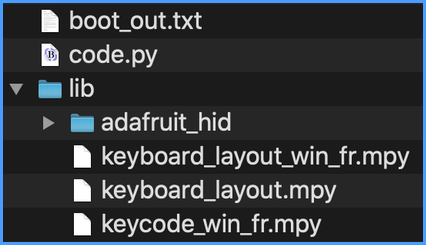
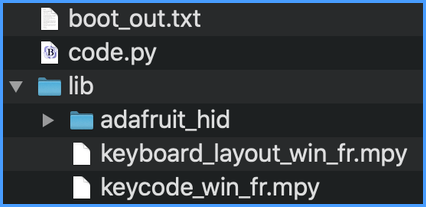
switch KeyboardLayoutBase to latest adafruit_HID

Changed region(s): [[0.0, 0.1739, 1.0, 1.0], [0.0, 0.0, 1.0, 0.1449], [0.0915, 0.5507, 0.1221, 0.6087]]

diff --git a/tests/reference/keyboard_layout.py b/tests/reference/keyboard_layout.py
@@ -3,6 +3,9 @@
 # SPDX-License-Identifier: MIT
 
 """
+`keyboard_layout.KeyboardLayoutBase`
+=======================================================
+
 * Author(s): Dan Halbert, AngainorDev, Neradoc
 """
 
@@ -43,7 +46,7 @@ class KeyboardLayoutBase:
 
     def _write(self, keycode, altgr=False):
         """Type a key combination based on shift bit and altgr bool
-        
+
         :param keycode: int value of the keycode, with the shift bit.
         :param altgr: bool indicating if the altgr key should be pressed too.
         """

diff --git a/libraries/layouts/keyboard_layout_win_br.py b/libraries/layouts/keyboard_layout_win_br.py
@@ -10,7 +10,7 @@ __version__ = "0.0.0-auto.0"
 __repo__ = "https://github.com/Neradoc/Circuitpython_Keyboard_Layouts.git"
 
 
-from keyboard_layout import KeyboardLayoutBase
+from adafruit_hid.keyboard_layout_base import KeyboardLayoutBase
 class KeyboardLayout(KeyboardLayoutBase):
     ASCII_TO_KEYCODE = (
         b'\x00'

diff --git a/libraries/layouts/keyboard_layout_win_cz.py b/libraries/layouts/keyboard_layout_win_cz.py
@@ -10,7 +10,7 @@ __version__ = "0.0.0-auto.0"
 __repo__ = "https://github.com/Neradoc/Circuitpython_Keyboard_Layouts.git"
 
 
-from keyboard_layout import KeyboardLayoutBase
+from adafruit_hid.keyboard_layout_base import KeyboardLayoutBase
 class KeyboardLayout(KeyboardLayoutBase):
     ASCII_TO_KEYCODE = (
         b'\x00'

diff --git a/libraries/layouts/keyboard_layout_win_cz1.py b/libraries/layouts/keyboard_layout_win_cz1.py
@@ -10,7 +10,7 @@ __version__ = "0.0.0-auto.0"
 __repo__ = "https://github.com/Neradoc/Circuitpython_Keyboard_Layouts.git"
 
 
-from keyboard_layout import KeyboardLayoutBase
+from adafruit_hid.keyboard_layout_base import KeyboardLayoutBase
 class KeyboardLayout(KeyboardLayoutBase):
     ASCII_TO_KEYCODE = (
         b'\x00'

diff --git a/libraries/layouts/keyboard_layout_win_da.py b/libraries/layouts/keyboard_layout_win_da.py
@@ -10,7 +10,7 @@ __version__ = "0.0.0-auto.0"
 __repo__ = "https://github.com/Neradoc/Circuitpython_Keyboard_Layouts.git"
 
 
-from keyboard_layout import KeyboardLayoutBase
+from adafruit_hid.keyboard_layout_base import KeyboardLayoutBase
 class KeyboardLayout(KeyboardLayoutBase):
     ASCII_TO_KEYCODE = (
         b'\x00'

diff --git a/libraries/layouts/keyboard_layout_win_de.py b/libraries/layouts/keyboard_layout_win_de.py
@@ -10,7 +10,7 @@ __version__ = "0.0.0-auto.0"
 __repo__ = "https://github.com/Neradoc/Circuitpython_Keyboard_Layouts.git"
 
 
-from keyboard_layout import KeyboardLayoutBase
+from adafruit_hid.keyboard_layout_base import KeyboardLayoutBase
 class KeyboardLayout(KeyboardLayoutBase):
     ASCII_TO_KEYCODE = (
         b'\x00'

diff --git a/libraries/layouts/keyboard_layout_win_es.py b/libraries/layouts/keyboard_layout_win_es.py
@@ -10,7 +10,7 @@ __version__ = "0.0.0-auto.0"
 __repo__ = "https://github.com/Neradoc/Circuitpython_Keyboard_Layouts.git"
 
 
-from keyboard_layout import KeyboardLayoutBase
+from adafruit_hid.keyboard_layout_base import KeyboardLayoutBase
 class KeyboardLayout(KeyboardLayoutBase):
     ASCII_TO_KEYCODE = (
         b'\x00'

diff --git a/libraries/layouts/keyboard_layout_win_fr.py b/libraries/layouts/keyboard_layout_win_fr.py
@@ -10,7 +10,7 @@ __version__ = "0.0.0-auto.0"
 __repo__ = "https://github.com/Neradoc/Circuitpython_Keyboard_Layouts.git"
 
 
-from keyboard_layout import KeyboardLayoutBase
+from adafruit_hid.keyboard_layout_base import KeyboardLayoutBase
 class KeyboardLayout(KeyboardLayoutBase):
     ASCII_TO_KEYCODE = (
         b'\x00'

diff --git a/libraries/layouts/keyboard_layout_win_hu.py b/libraries/layouts/keyboard_layout_win_hu.py
@@ -10,7 +10,7 @@ __version__ = "0.0.0-auto.0"
 __repo__ = "https://github.com/Neradoc/Circuitpython_Keyboard_Layouts.git"
 
 
-from keyboard_layout import KeyboardLayoutBase
+from adafruit_hid.keyboard_layout_base import KeyboardLayoutBase
 class KeyboardLayout(KeyboardLayoutBase):
     ASCII_TO_KEYCODE = (
         b'\x00'

diff --git a/libraries/layouts/keyboard_layout_win_it.py b/libraries/layouts/keyboard_layout_win_it.py
@@ -10,7 +10,7 @@ __version__ = "0.0.0-auto.0"
 __repo__ = "https://github.com/Neradoc/Circuitpython_Keyboard_Layouts.git"
 
 
-from keyboard_layout import KeyboardLayoutBase
+from adafruit_hid.keyboard_layout_base import KeyboardLayoutBase
 class KeyboardLayout(KeyboardLayoutBase):
     ASCII_TO_KEYCODE = (
         b'\x00'

diff --git a/libraries/layouts/keyboard_layout_win_po.py b/libraries/layouts/keyboard_layout_win_po.py
@@ -10,7 +10,7 @@ __version__ = "0.0.0-auto.0"
 __repo__ = "https://github.com/Neradoc/Circuitpython_Keyboard_Layouts.git"
 
 
-from keyboard_layout import KeyboardLayoutBase
+from adafruit_hid.keyboard_layout_base import KeyboardLayoutBase
 class KeyboardLayout(KeyboardLayoutBase):
     ASCII_TO_KEYCODE = (
         b'\x00'

diff --git a/libraries/layouts/keyboard_layout_win_sw.py b/libraries/layouts/keyboard_layout_win_sw.py
@@ -10,7 +10,7 @@ __version__ = "0.0.0-auto.0"
 __repo__ = "https://github.com/Neradoc/Circuitpython_Keyboard_Layouts.git"
 
 
-from keyboard_layout import KeyboardLayoutBase
+from adafruit_hid.keyboard_layout_base import KeyboardLayoutBase
 class KeyboardLayout(KeyboardLayoutBase):
     ASCII_TO_KEYCODE = (
         b'\x00'
